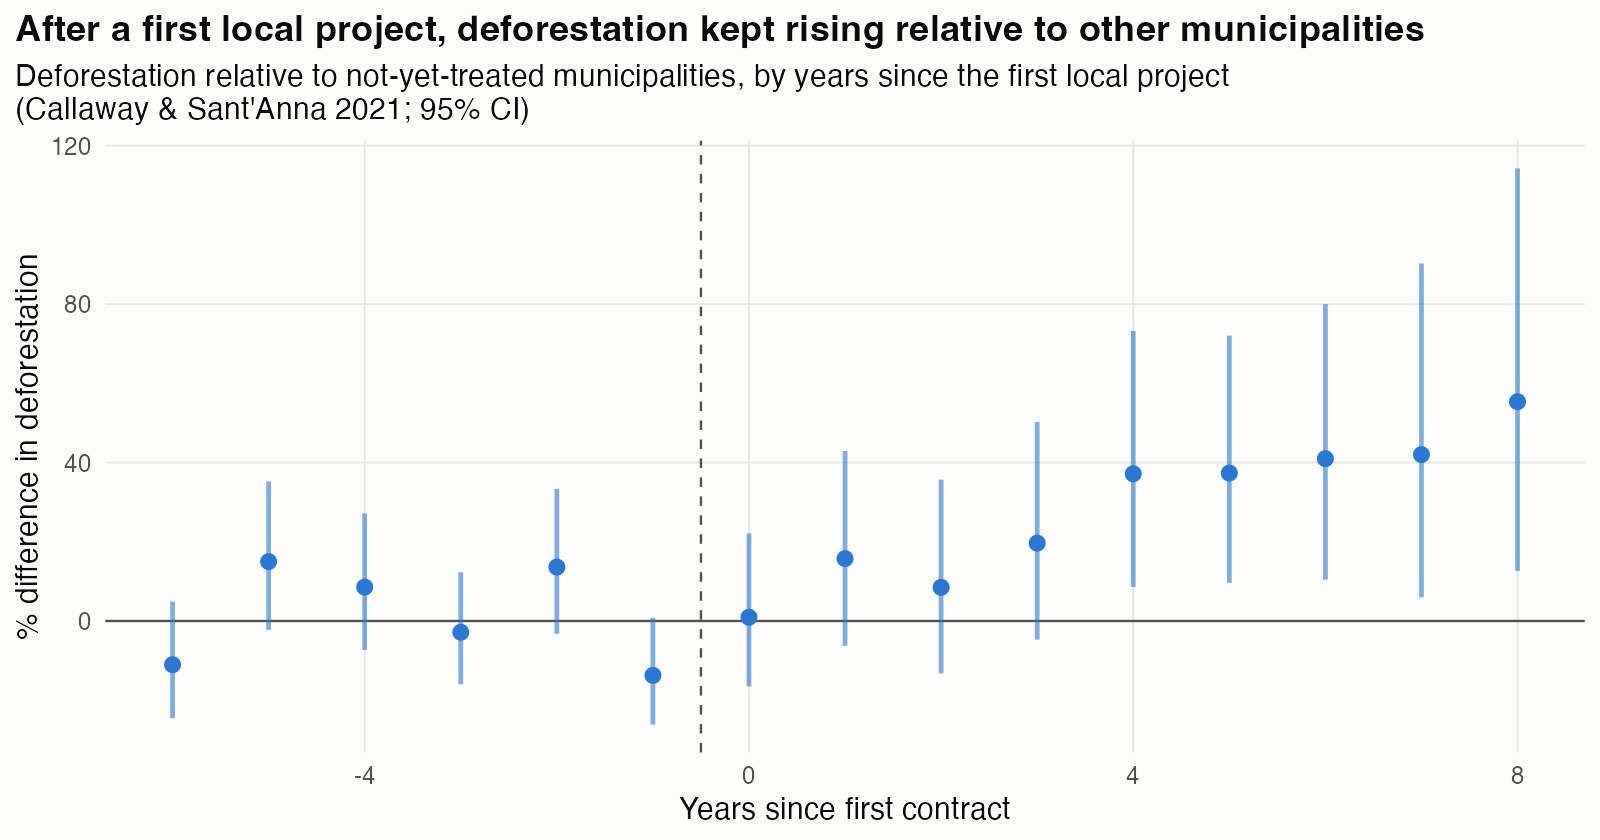
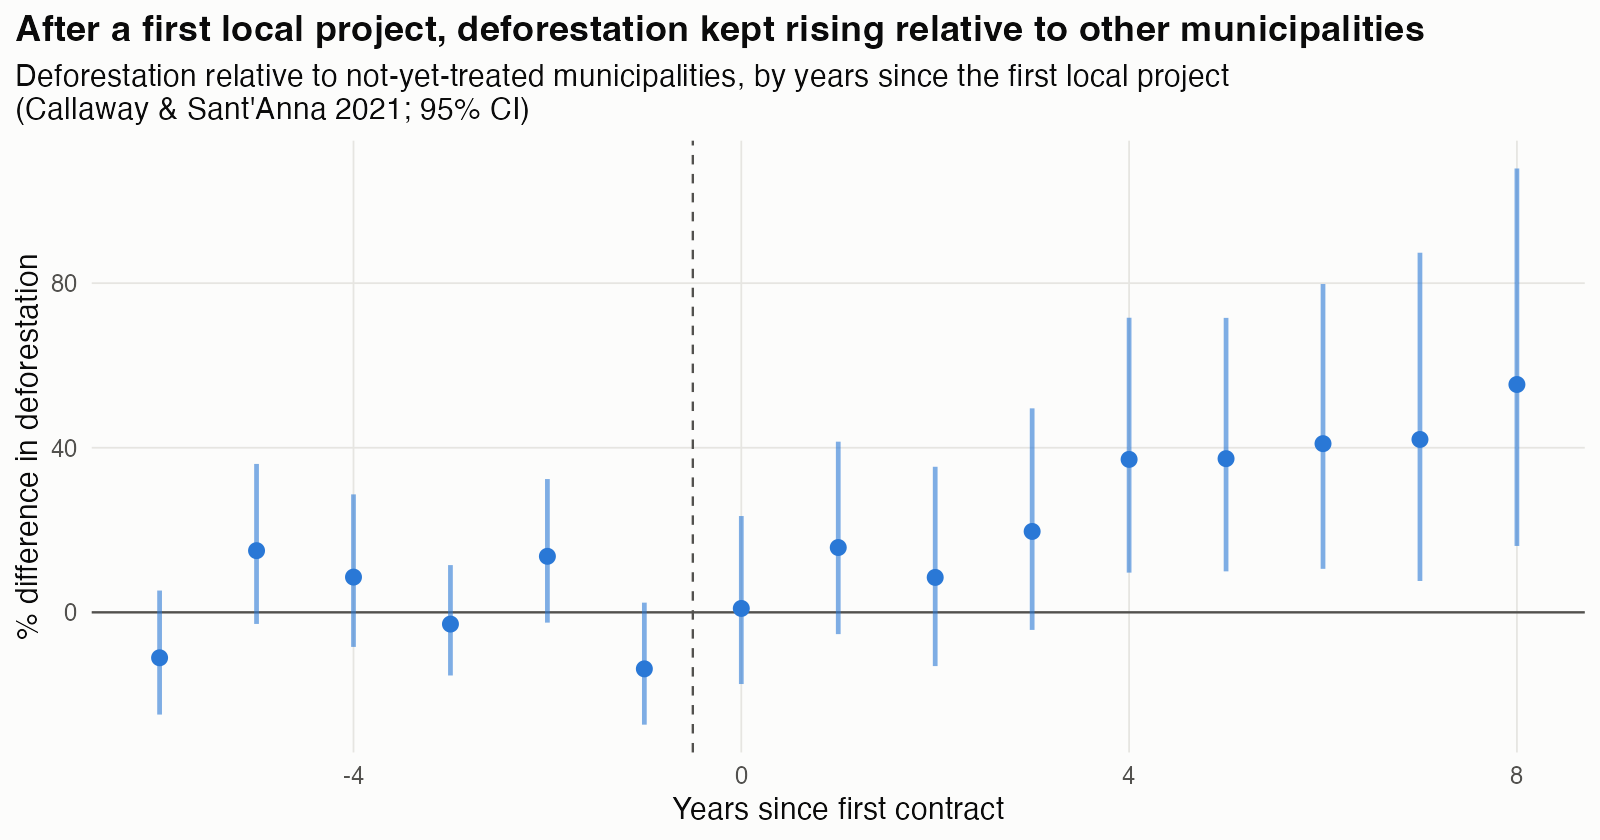
Clean up repo: design doc to docs/, drop process plan, seed DiD bootstrap

diff --git a/README.md b/README.md
@@ -42,7 +42,7 @@ Only about **23 % of contracted Fund support** (19 % of the money disbursed so f
 | Data | Spreadsheets copied by hand from the Fund's website, PRODES export 2008–2020 | Everything downloaded by script: all 156 project pages with 644 dated disbursements (they sum exactly to the Fund's published R$ 2,926 million), PRODES through 2026 |
 | Treatment | "Has a project": binary, no intensity | R$ per municipality per year (2025 prices), plus freeze and restart exposure |
 | Method | Two-way fixed effects (`plm`), plain staggered DiD | `fixest` with state × year fixed effects, Callaway–Sant'Anna for staggered adoption, event studies around the freeze and restart |
-| Code | One 1,800-line exploratory script | Small tested functions (91 unit tests), one entry point, about 40 seconds end to end |
+| Code | One 1,800-line exploratory script | Small tested functions (92 unit tests), one entry point, about 40 seconds end to end |
 
 The 2021 version is preserved under the tag [`v2021-seminar`](../../tree/v2021-seminar) and as a PDF in [`archive/2021/`](archive/2021/The_Amazon_Fund_2021.pdf).
 
@@ -74,7 +74,7 @@ Raw downloads are cached in `data/raw/` (all committed except the 123 MB IBAMA f
 | `R/` | One file per step: `prodes.R`, `fund_scrape.R`, `fund_coverage.R`, `priority.R`, `controls.R`, `panel.R`, `estimate.R`, `report.R` |
 | `data/raw/`, `data/manual/` | Cached downloads and the two hand-maintained inputs |
 | `figures/`, `results/` | Figures and coefficient tables produced by `run_all.R` |
-| `docs/` | Design, implementation plan and manual-review notes |
+| `docs/` | Research design ([`design.md`](docs/design.md)) and manual-review notes |
 
 ## What this can and cannot say
 

diff --git a/docs/design.md b/docs/design.md
@@ -1,7 +1,7 @@
 # Amazon Fund and Deforestation — rebuild design (phases 1 and 2)
 
 Date: 2026-10-29
-Status: draft for approval
+Status: approved and implemented (see "Implementation notes" at the end)
 
 ## 1. Intent
 
